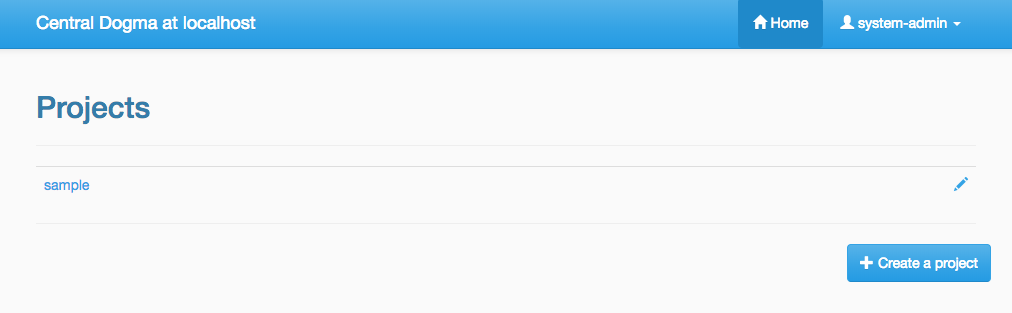
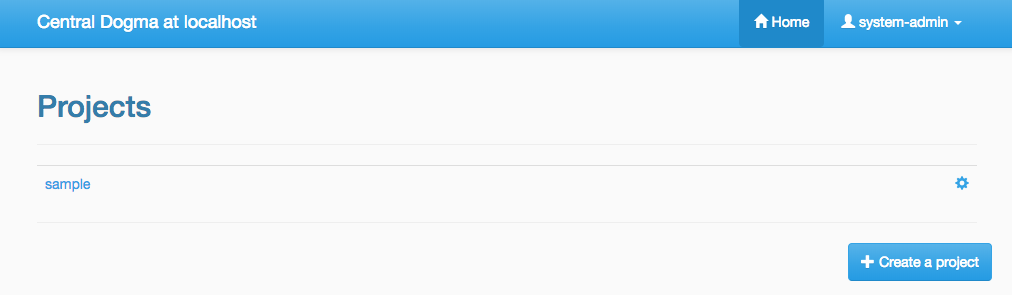
Make web UI better (#183)
Modifications:
- Change icons: `pencil` -> `cog` and `edit`, `close` -> `trash`
- Update docs

diff --git a/server/src/main/resources/webapp/scripts/app/entities/metadata/metadata.project.html b/server/src/main/resources/webapp/scripts/app/entities/metadata/metadata.project.html
@@ -2,8 +2,8 @@
   <h2>
     <a ng-href="#">Projects</a> / {{project.name}}
     <div class="pull-right" has-role="LEVEL_USER" ng-if="isOwner()">
-      <a type="button" class="close" aria-label="Close" ng-click="removeProject()">
-        <span aria-hidden="true">&times;</span>
+      <a type="button" class="btn btn-xs" ng-click="removeProject()">
+        <span class="glyphicon glyphicon-trash"></span>
       </a>
     </div>
   </h2>
@@ -34,8 +34,8 @@
       <td ng-switch-default><span class="glyphicon" style="color:red">Deleted</span></td>
       <td ng-switch-when="true">
         <div class="pull-right" has-role="LEVEL_USER" ng-if="isOwner()">
-          <a type="button" class="close" aria-label="Close" ng-click="removeRepository(repo)">
-            <span aria-hidden="true">&times;</span>
+          <a type="button" class="btn btn-xs" ng-click="removeRepository(repo)">
+            <span class="glyphicon glyphicon-trash"></span>
           </a>
         </div>
       </td>
@@ -122,7 +122,7 @@
         <td ng-switch-default>
           {{member.role}}
           <a type="button" class="btn btn-xs" ng-click="member.isEditing = true" ng-if="isOwner()">
-            <span class="glyphicon glyphicon-pencil"></span>
+            <span class="glyphicon glyphicon-edit"></span>
           </a>
         </td>
         <td>{{sanitizeEmail(member.creation.user)}}</td>
@@ -141,9 +141,9 @@
         </td>
         <td ng-switch-default>
           <div class="pull-right" has-role="LEVEL_USER" ng-if="isOwner()">
-            <button type="button" class="close" aria-label="Close" ng-click="removeMember(member)">
-              <span aria-hidden="true">&times;</span>
-            </button>
+            <a type="button" class="btn btn-xs" ng-click="removeMember(member)">
+              <span class="glyphicon glyphicon-trash"></span>
+            </a>
           </div>
         </td>
       </tr>
@@ -184,7 +184,7 @@
       <div has-role="LEVEL_USER">
         Tokens
         <a ng-href="#/settings/tokens" type="button" class="btn btn-xs">
-          <span class="glyphicon glyphicon-pencil"></span>
+          <span class="glyphicon glyphicon-cog"></span>
         </a>
       </div>
     </h4>
@@ -208,7 +208,7 @@
         <td ng-switch-default>
           {{token.role}}
           <a type="button" class="btn btn-xs" ng-click="token.isEditing = true" ng-if="isOwner()">
-            <span class="glyphicon glyphicon-pencil"></span>
+            <span class="glyphicon glyphicon-edit"></span>
           </a>
         </td>
         <td>{{sanitizeEmail(token.creation.user)}}</td>
@@ -227,9 +227,9 @@
         </td>
         <td ng-switch-default>
           <div class="pull-right" has-role="LEVEL_USER" ng-if="isOwner()">
-            <button type="button" class="close" aria-label="Close" ng-click="removeToken(token)">
-              <span aria-hidden="true">&times;</span>
-            </button>
+            <a type="button" class="btn btn-xs" ng-click="removeToken(token)">
+              <span class="glyphicon glyphicon-trash"></span>
+            </a>
           </div>
         </td>
       </tr>

diff --git a/server/src/main/resources/webapp/scripts/app/settings/tokens/tokens.html b/server/src/main/resources/webapp/scripts/app/settings/tokens/tokens.html
@@ -9,13 +9,14 @@
       <th><span translate>settings.token_creator</span></th>
       <th><span translate>settings.token_creation_time</span></th>
       <th><span translate>settings.token_status</span></th>
-      <th has-role="LEVEL_ADMIN"><span translate>settings.token_secret</span></th>
     </tr>
     </thead>
     <tbody>
     <tr ng-repeat="token in tokens" ng-click="selectToken(token)" ng-class="{info: token === selectedToken}">
-      <td>
+      <td width="40%">
         {{token.appId}}
+        <a has-role="LEVEL_ADMIN" class="btn-xs" data-toggle="collapse" data-target="#secret-{{token.appId}}">
+          <span class="glyphicon glyphicon-menu-down"></span></a>
         <p class="collapse" id="secret-{{token.appId}}">{{token.secret}}</p>
       </td>
       <td>
@@ -31,10 +32,6 @@
           <div ng-switch-when="true">Active</div>
           <div ng-switch-default>Inactive</div>
         </div>
-      </td>
-      <td has-role="LEVEL_ADMIN">
-        <p><a class="btn-xs" data-toggle="collapse" data-target="#secret-{{token.appId}}">
-          <span class="glyphicon glyphicon-circle-arrow-down"></span></a></p>
       </td>
     </tr>
     </tbody>

diff --git a/server/src/main/resources/webapp/scripts/app/entities/metadata/metadata.project.controller.js b/server/src/main/resources/webapp/scripts/app/entities/metadata/metadata.project.controller.js
@@ -175,7 +175,16 @@ angular.module('CentralDogmaAdmin')
                             entry[1].originalRole = entry[1].role;
                             outputList.push(entry[1]);
                           });
-                          return outputList;
+                          return outputList.sort(function (a, b) {
+                            if (a.originalRole === b.originalRole) {
+                              return a - b;
+                            }
+                            if (a.originalRole === CentralDogmaConstant.PROJECT_ROLE_OWNER) {
+                              return -1;
+                            } else {
+                              return 1;
+                            }
+                          });
                         }
                         $scope.memberList = convertList(metadata.members);
                         $scope.tokenList = convertList(metadata.tokens);

diff --git a/server/src/main/resources/webapp/scripts/app/entities/projects/projects.html b/server/src/main/resources/webapp/scripts/app/entities/projects/projects.html
@@ -10,7 +10,7 @@
       <div has-role="LEVEL_USER">
         <td align="right">
           <a ng-click="movePageIfAccessible(project.name)">
-            <span class="glyphicon glyphicon-pencil"></span>
+            <span class="glyphicon glyphicon-cog"></span>
           </a>
         </td>
       </div>

diff --git a/site/src/sphinx/auth.rst b/site/src/sphinx/auth.rst
@@ -48,7 +48,7 @@ You may configure a project with HTTP APIs, but we recommend the web UI because 
 
 Everyone who is logged in is able to create a new project, and he or she would be an owner of the project.
 If you have the right to configure a project, in other words, if you are an owner of the project,
-you can access the configuration UI of the project by clicking the pencil icon which is shown on the right
+you can access the configuration UI of the project by clicking the cog icon which is shown on the right
 of the project name.
 
 .. image:: _images/auth_1.png
@@ -86,7 +86,7 @@ of ``Owner`` and ``Member`` role in the UI. More information about the role is a
 .. note::
 
     Do not forget to make a new ``Application Token`` before adding a token to a project. ``Add a token``
-    button would be disabled if there is no token. The pencil icon on the right of the ``Tokens`` title
+    button would be disabled if there is no token. The cog icon on the right of the ``Tokens`` title
     brings you to the ``Application Token`` management page.
 
 You can see the configuration UI for a repository when you click the name of repository in the
@@ -128,6 +128,10 @@ request comes from.
 Anyone who is logged into the Central Dogma can create a new ``Application Token``, and the token is shared
 for everyone. So any owner of a project can add any token to their project. However only both the token
 creator and the administrator are allowed to deactivate and/or remove the token.
+
+There are two levels of a token, which are ``Admin`` and ``User``. ``Admin`` level token can be created by
+only the administrators. A client who sends a request with the token is allowed to access administrator-level
+APIs.
 
 .. note::
 
